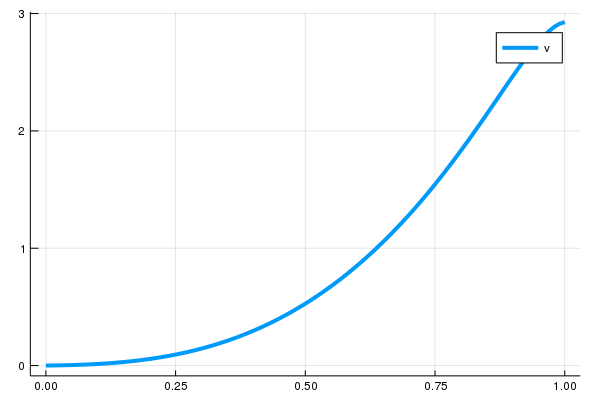
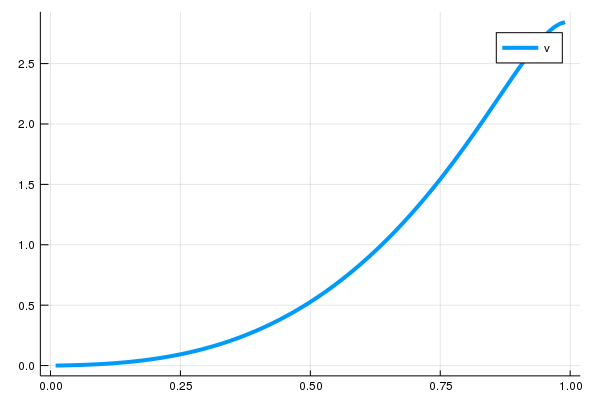
Update docs to use exterior nodes

diff --git a/docs/src/derivations.md b/docs/src/derivations.md
@@ -4,7 +4,7 @@ Detailed derivation, including formula for irregular grids, can be found [here](
 
 Setup
 ----------
-Let $\{x_i\}_{i=1}^M$ be a collection of discretized $M$-length of grids on $x$ with end points $x_1 = x_{\min}$ and $x_M = x_{\max}$. Also, throughout the section, we consider regular grids, i.e., $x_{i+1} - x_i = \Delta$ for some constant $\Delta > 0$ for all $i = 1, ..., M-1$. Also, given a real-valued function $v$, let $v(x)$ be the $M$-length vector whose $i$th element is $v(x_i)$. The goal is to construct a matrix $L$ such that $L v(x)$ represents the first-order or second-order derivative of $v$ on $x$ under some boundary conditions.
+Let $\overline{x} = \{x_i\}_{i=0}^{M+1}$ be an extended grid of discretized $M$-length of grids on $x$ with end points $x_0 = x_{\min}$ and $x_{M+1} = x_{\max}$, and $x = \{x_i\}_{i=1}^M$ be the corresponding interior grid. Also, throughout the section, we consider regular grids, i.e., $x_{i+1} - x_i = \Delta$ for some constant $\Delta > 0$ for all $i = 0, ..., M$. Given a real-valued function $v$, let $v(x)$ be the $M$-length vector whose $i$th element is $v(x_i)$. The goal is to construct a matrix $L$ such that $L v(x)$ represents the first-order or second-order derivative of $v$ on $x$ under some boundary conditions.
 
 Mixed Boundary Values
 ----------
@@ -53,7 +53,7 @@ which represent the backward first order, foward first order, and central second
 
 Applying boundary conditions with operators on extended grids
 ----------
-Boundary conditions can be applied manually by using operators on extended grids. This can be done by first extending $x = \{x_i\}_{i=1}^M$ to $ \overline{x} = \{x_i\}_{i=0}^{M+1}$ where $x_{i+1} - x_i = \Delta$ for some constant $\Delta > 0$ for all $i = 0, ..., M$. We call $x_0$ and $x_{M+1}$, extra nodes just before and after $x_{\min}$ and $x_{\max}$, as ghost nodes. Likewise, define $v(\overline{x})$ as $(M+2)$-vector whose $i$th element is $\overline {x}_i$. We can then define the following operators on $\overline{x}$:
+Boundary conditions can be applied manually by using operators on extended grids. Define $v(\overline{x})$ as $(M+2)$-vector whose $i$th element is $\overline {x}_{i-1}$. We can then define the following operators on $\overline{x}$:
 
 ```math
 \overline{L}_{1-} \equiv \frac{1}{\Delta}\begin{pmatrix}
@@ -103,7 +103,7 @@ with $M_E$ by $(M+2)$ matrix $B$ and $M_E$-length vector $b$ that represent the 
 
 ```math
 B = \begin{bmatrix}
-1 & -1 & 0 & \dots & 0 & 0 & 0 \\
+-1 & 1 & 0 & \dots & 0 & 0 & 0 \\
 0 & 0 & 0 & \dots & 0 & -1 & 1\\
 \end{bmatrix}_{2 \times (M+2)} \quad 
 b = \begin{bmatrix}
@@ -117,7 +117,7 @@ Likewise, for non-homogenous boundary conditions $v'(x_{\min}) = \underline{\xi}
 
 ```math
 B = \begin{bmatrix}
-1 & -1 & 0 & \dots & 0 & 0 & 0 \\
+-1 & 1 & 0 & \dots & 0 & 0 & 0 \\
 0 & 0 & 0 & \dots & 0 & -1 & 1\\
 \end{bmatrix}_{2 \times (M+2)} \quad 
 b = \begin{bmatrix}

diff --git a/docs/src/index.md b/docs/src/index.md
@@ -20,7 +20,7 @@ Consider solving for `v` from the following equation by the Hamilton-Jacobi-Bell
 ```
 
 for some constant $\rho, \sigma > 0$ and $\mu \leq 0$. To solve `v` under the reflecting barrier conditions $v'(0) = v'(1) = 0$ on `M`-size discretized grids, one can run the following code:
-```juliax   
+```julia
 # import LinearAlgebra package (for diagonal and identity matrices)
 using LinearAlgebra 
 # setup 
@@ -29,12 +29,12 @@ f(x) = x^2
 σ = 0.1
 ρ = 0.05
 M = 100 # size of grid
-x = range(0.0, 1.0, length = M) # grid
-
+x̄ = range(0.0, 1.0, length = (M+2)) # grid
+x = interior(x̄) # interior nodes
 # discretize L = ρ - μ D_x - σ^2 / 2 D_xx
 # subject to reflecting barriers at 0 and 1
 bc = (Reflecting(), Reflecting())
-L = I * ρ - μ*L₁₋(x, bc) - σ^2 / 2 * L₂(x, bc)
+L = I * ρ - μ*L₁₋(x̄, bc) - σ^2 / 2 * L₂(x̄, bc)
 ## solve the value function
 v = L \ f.(x) 
 ```
@@ -46,7 +46,7 @@ One can alternatively use differential operators on interior nodes and stack the
 using SparseArrays
 
 # differential operators on extended nodes
-L̄ₓ = μ*L̄₁₋(x) + σ^2 / 2 * L̄₂(x)
+L̄ₓ = μ*L̄₁₋(x̄) + σ^2 / 2 * L̄₂(x̄)
 
 # boundary conditions (i.e. B v̄ = b)
 B = transpose([[-1; 1; zeros(M)] [zeros(M); -1; 1]])
@@ -122,15 +122,16 @@ f(x) = x^2
 σ = 1.0
 ρ = 0.05
 M = 100 # size of grid
-x = range(-1.0, 1.0, length = 100)
+x̄ = range(-1.0, 1.0, length = (M+2))
+x = interior(x̄) # interior nodes
 
 bc = (Reflecting(), Reflecting())
 
 # Define first order differential operator using upwind scheme
-L₁ = Diagonal(min.(μ.(x), 0.0)) * L₁₋(x, bc) + Diagonal(max.(μ.(x), 0.0)) * L₁₊(x, bc)
+L₁ = Diagonal(min.(μ.(x), 0.0)) * L₁₋(x̄, bc) + Diagonal(max.(μ.(x), 0.0)) * L₁₊(x̄, bc)
 
 # Define linear operator using upwind schemes
-L = L₁ - σ^2 / 2 * L₂(x,bc)
+L = L₁ - σ^2 / 2 * L₂(x̄,bc)
 
 # solve the value function
 v = (I * ρ - L) \ f.(x) 
